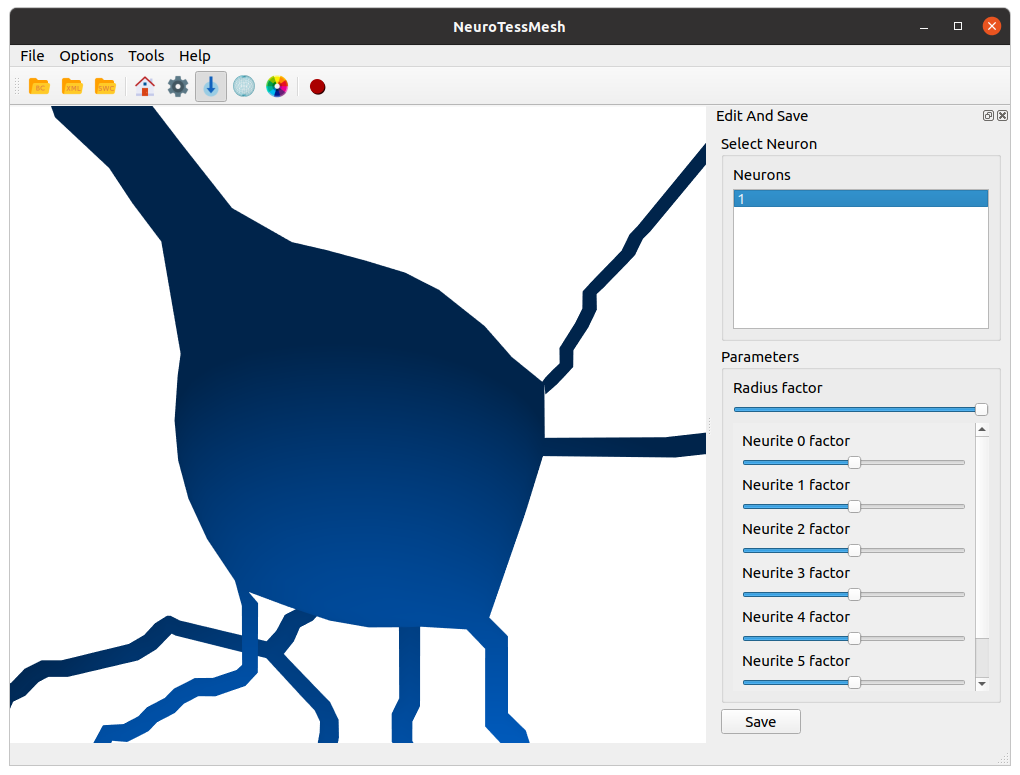
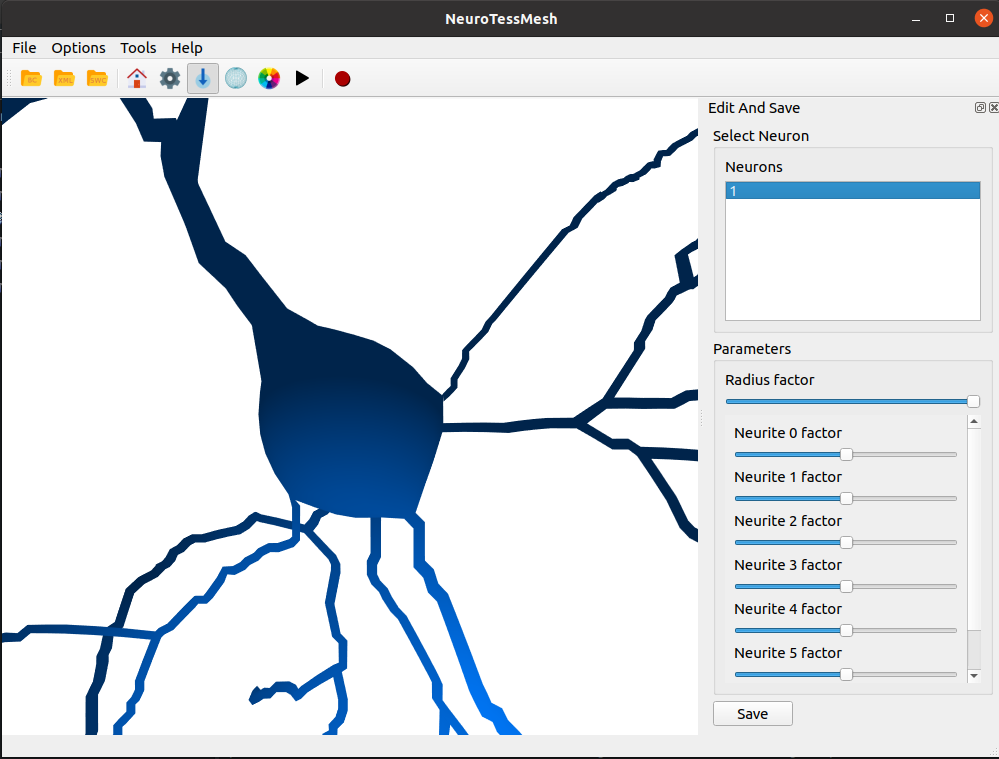
Updated to version 0.4.

diff --git a/source/conf.py b/source/conf.py
@@ -22,7 +22,7 @@ copyright = '2022, Universidad Rey Juan Carlos'
 author = 'Félix de las Pozas Álvarez'
 
 # The full version, including alpha/beta/rc tags
-release = '0.3.2'
+release = '0.4.0'
 
 
 # -- General configuration ---------------------------------------------------
@@ -67,7 +67,7 @@ latex_maketitle = r'''
 \begin{center}
   \includegraphics[width=6cm,height=6cm]{neurotessmesh.png}\\[8ex]
   {\Huge NeuroTessMesh Documentation}\\[4ex]
-  {\Large Version 0.3.2}\\[4ex]
+  {\Large Version 0.4.0}\\[4ex]
   {\Large Juan Jos\'{e} Garc\'{i}a Cantero \& F\'{e}lix de las Pozas \'{A}lvarez}\\[4ex]
   {\Large March 2022}\\[16ex]
   {\Large Visualization \& Graphics Lab, Universidad Rey Juan Carlos}\\[4ex]

diff --git a/source/01-Introduction.rst b/source/01-Introduction.rst
@@ -4,7 +4,7 @@ NeuroTessMesh Introduction
 
 **NeuroLOTs** is a set of libraries and tools that implement a method for generating neuronal meshes and for visualizing them at different levels of detail using GPU-based tessellation. As a part of NeuroLOTs, **NeuroTessMesh** provides a visual environment for the generation of 3D polygonal meshes that approximate the membrane of neuronal cells, from the morphological tracings that describe the morphology of the neurons. The 3D models can be tessellated at different levels of detail, providing either homogeneous or adaptive resolution along the model. The soma shape is recovered from the incomplete information of the tracings, applying a physical deformation model that can be interactively adjusted. The adaptive refinement process performed in the GPU generates meshes that allow good visual quality geometries at an affordable computational cost, both in terms of memory and rendering time. NeuroTessMesh is the front-end GUI to NeuroLOTs framework. 
 
-This documentation is for NeuroTessMesh version 0.3.2 software that can be obtained from the homepage.
+This documentation is for NeuroTessMesh version 0.4.0 software that can be obtained from the homepage.
 
 ---------------------
 Hardware requirements
@@ -117,9 +117,9 @@ Docker example
 
   xhost +local:docker
   # Pull the image.
-  docker pull vglab/neurotessmesh:0.3.2-nvidia-ubuntu-16.04
+  docker pull vglab/neurotessmesh:0.4.0-nvidia-ubuntu-16.04
   # Download example data
   wget http://neuromorpho.org/dableFiles/allen%20cell%20types/CNG%20version/H16-03-001-01-09-01_559391771_m.CNG.swc
   # Run example
-  docker run --gpus 1 -ti --rm -e DISPLAY -v /tmp/.X11-unix:/tmp/.X11-unix -v /etc/machine-id:/etc/machine-id -v $(pwd)/H16-03-001-01-09-01_559391771_m.CNG.swc:/H16-03-001-01-09-01_559391771_m.CNG.swc --privileged vglab/neurotessmesh:0.3.2-nvidia-ubuntu-16.04 /usr/bin/NeuroTessMesh -swc /H16-03-001-01-09-01_559391771_m.CNG.swc
+  docker run --gpus 1 -ti --rm -e DISPLAY -v /tmp/.X11-unix:/tmp/.X11-unix -v /etc/machine-id:/etc/machine-id -v $(pwd)/H16-03-001-01-09-01_559391771_m.CNG.swc:/H16-03-001-01-09-01_559391771_m.CNG.swc --privileged vglab/neurotessmesh:0.4.0-nvidia-ubuntu-16.04 /usr/bin/NeuroTessMesh -swc /H16-03-001-01-09-01_559391771_m.CNG.swc
 

diff --git a/source/02-NeuroTessMeshUserInterface.rst b/source/02-NeuroTessMeshUserInterface.rst
@@ -13,7 +13,7 @@ The application bar presents several icons to perform actions such as opening da
 .. figure:: images/NTMimage001.png
    :alt: NeuroTessMesh application toolbar
    :align: center
-   :width: 326
+   :width: 366
    :scale: 100%
 
    NeuroTessMesh application tool bar. 
@@ -97,10 +97,36 @@ Edit and save panel
 .. figure:: images/NTMimage004.png
    :alt: Edit and save panel
    :align: center
-   :width: 1020
+   :width: 999
    :scale: 60%
 
    Edit and save panel.
+
+
+^^^^^^^^^^^^
+Player panel
+^^^^^^^^^^^^
+
+The player panel is only enabled if the dataset loaded have neuron spikes information (currently only BlueConfig datasets). The panel contains the player options and the playing position bar.
+
+The player configuration options are:
+  - **Step delta time**: Amount of increment per simulation step. 
+  - **Steps/second**: Number of steps per second.
+
+.. _figa4:
+
+.. figure:: images/NTMimage013.png
+   :alt: Spike activation simulation.
+   :align: center
+   :width: 1020
+   :scale: 60%
+
+   Spike activation simulation.
+
+When a dataset has spike information the **player** panel allow the user to **play**, **stop** and position the simulation at the selected time. When a neuron activates it changes color to red, and then decays to the current neuron color. 
+
+.. warning::
+   Simulations are most visible if the render is only displaying the soma because when activated the whole neuron will change color.
 
 ^^^^^^^^^^^^^^^^^^^^^
 Scene camera controls
@@ -145,6 +171,7 @@ Options menu
 - **Update on idle**: This will reduce visualization repaint calls to user interaction (camera rotation, etc.) and specific actions.
 - **Show FPS on idle update**: Displays a label with current frames per second rate. Note: this might reduce performance due to interface update calls, so it is recommended to hide it when not interested on measuring performance.
 - **Render options**: Shows/hides the render panel.
+- **Simulation player options**: Shows/hides the spike simulation player. The player will be disabled if the dataset has no spike information.
 - **Edit And Save**: Shows/hides the edit and save panel.
 - **Configuration**: Shows/hides the configuration panel.
 

diff --git a/source/03-Runbook.rst b/source/03-Runbook.rst
@@ -3,7 +3,7 @@ Runbook
 =======
 
 .. note::
-   This runbook will test the main functionalities of NeuroTessMesh and can be considered as a basic tutorial for the application, but **not** as a complete and exhaustive tutorial of all its functionalities. 
+   This runbook will test the main functionalities of NeuroTessMesh and can be considered as a basic tutorial for the application, but **not** as a complete and exhaustive tutorial of all its functionalities. This runbook is up to date with NeuroTessMesh version 0.4.0. 
 
 1. Load a "swc" file (:numref:`fig5`). 
 
